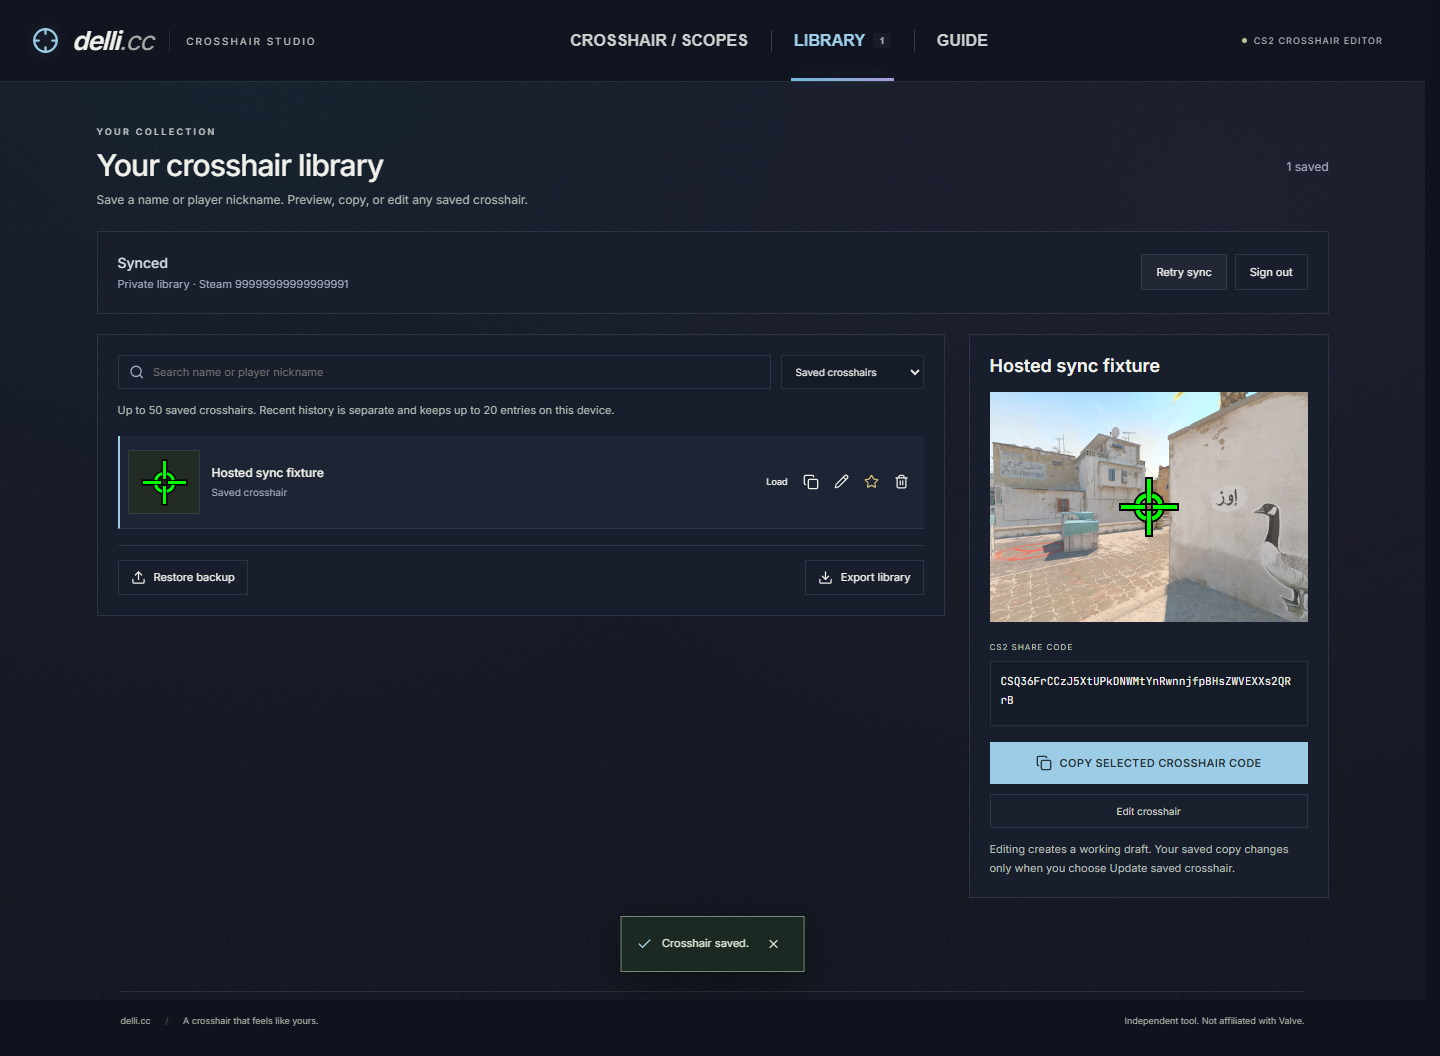
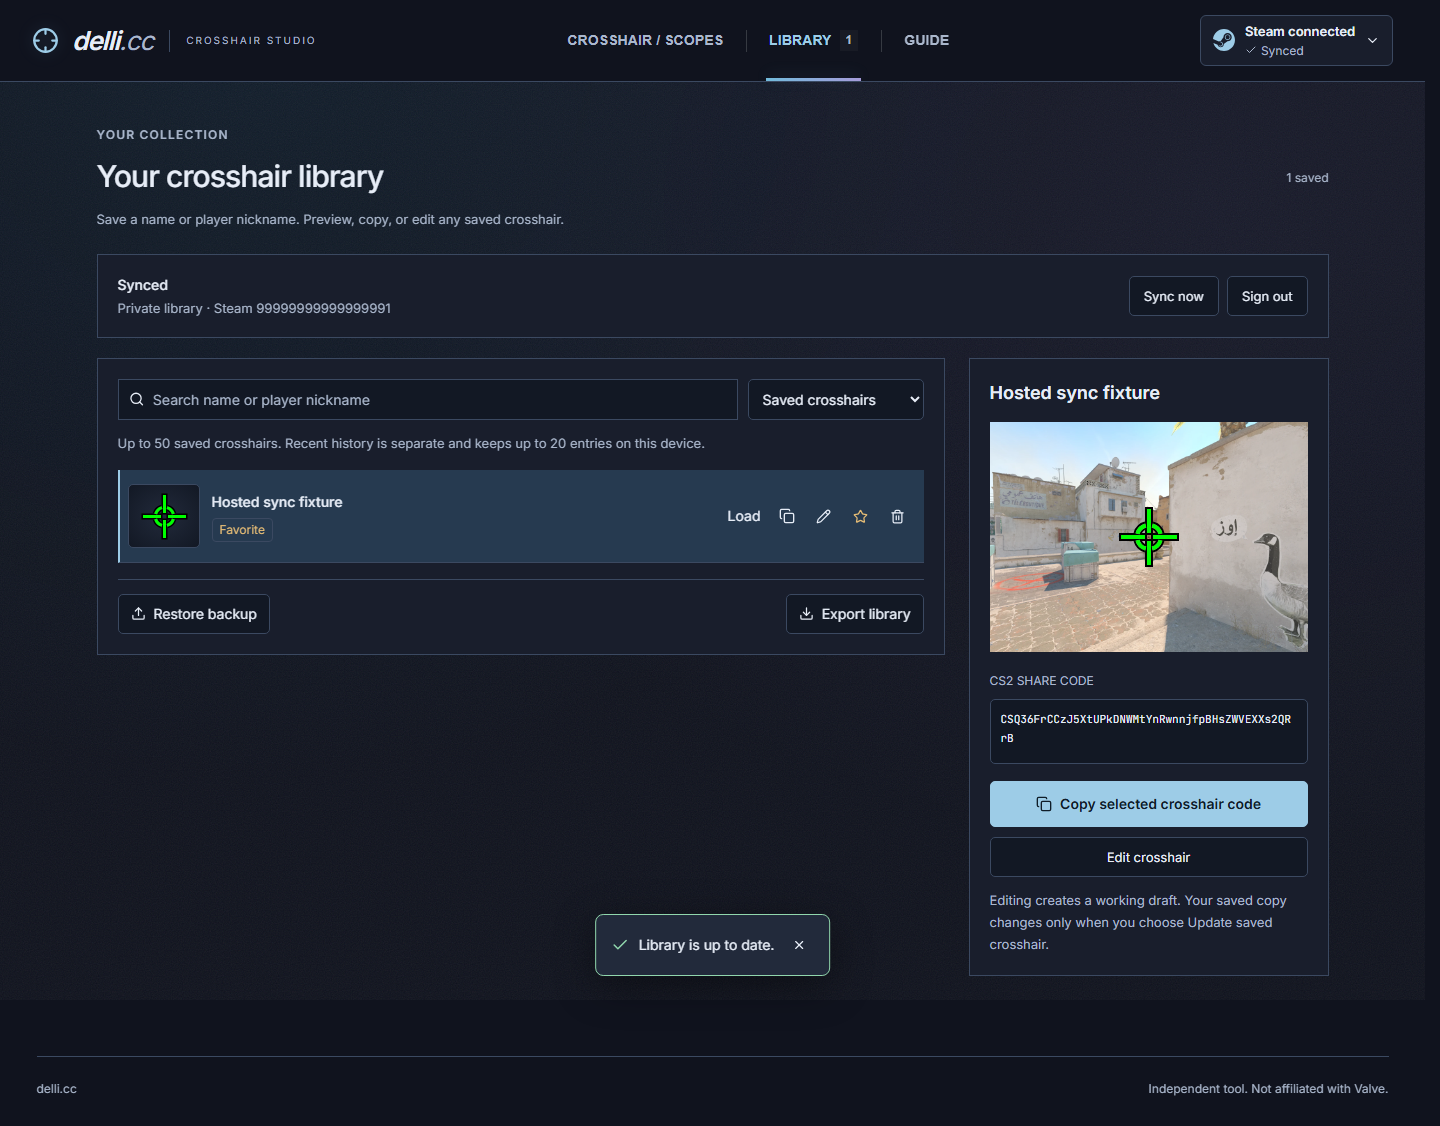
Verify hosted preview sync and document real Firefox Steam login

diff --git a/scripts/verify-vercel-preview.ts b/scripts/verify-vercel-preview.ts
@@ -1,26 +1,93 @@
-import {chromium,expect} from '@playwright/test';
+import {chromium,expect,type Page} from '@playwright/test';
 import {createNeonStore} from '../server/neon-store.ts';
 import {neon} from '@neondatabase/serverless';
 import {randomBytes,createHash} from 'node:crypto';
 import {readFileSync,mkdirSync} from 'node:fs';
-const origin=process.env.PREVIEW_ORIGIN??'https://delli-crosshair-h8erl1zzu-softhe.vercel.app';
+
+const requestedOrigin=process.env.PREVIEW_ORIGIN;
+if(!requestedOrigin)throw Error('PREVIEW_ORIGIN must explicitly name the review deployment.');
+const deployment=new URL(requestedOrigin);
+if(deployment.protocol!=='https:'||!/^delli-crosshair-[a-z0-9]+-softhe\.vercel\.app$/.test(deployment.hostname)||deployment.port||deployment.pathname!=='/'||deployment.search||deployment.hash||deployment.username||deployment.password)throw Error('Use a deployment-specific delli-crosshair preview origin, never production.');
+const origin=deployment.origin;
 const secret=JSON.parse(readFileSync('.tools/preview-bypass.json','utf8')).secret;
-const url=process.env.DATABASE_URL;if(!url)throw Error('DATABASE_URL is required.');
+const url=process.env.DATABASE_URL;if(!url)throw Error('The preview DATABASE_URL is required.');
 const sql=neon(url),store=await createNeonStore(url),browser=await chromium.launch();
 // Synthetic non-production identities exercise the deployed API without pretending to verify Steam accounts.
-const owners=['99999999999999991','99999999999999992'];const sessions:string[]=[];
+const owners=['99999999999999991','99999999999999992'];
+const sessions:string[]=[],fixtureOwners:string[]=[],states:string[]=[];
 mkdirSync('docs/evidence',{recursive:true});
+async function openSave(page:Page){
+  const disclosure=page.locator('.save-disclosure');
+  if(await disclosure.getAttribute('open')===null)await disclosure.locator(':scope > summary').click();
+}
 try{
-  async function context(owner?:string,width=1440,height=1000){const c=await browser.newContext({viewport:{width,height}});await c.route('**/*',route=>{const request=route.request();return new URL(request.url()).origin===origin?route.continue({headers:{...request.headers(),'x-vercel-protection-bypass':secret}}):route.continue();});if(owner){const id=randomBytes(32).toString('hex'),hash=createHash('sha256').update(id).digest('hex');sessions.push(hash);await store.addSession({id:hash,owner,csrf:randomBytes(32).toString('hex'),expires:Date.now()+600000});await c.addCookies([{name:'delli_session',value:id,url:origin,httpOnly:true,secure:true,sameSite:'Lax'}]);}return c;}
-  const guest=await context();const g=await guest.newPage();await g.goto(origin,{waitUntil:'networkidle'});await g.waitForFunction(()=>!document.getElementById('root')!.inert);await g.getByRole('button',{name:'Library',exact:true}).click();await expect(g.getByRole('link',{name:'Sign in with Steam',exact:true})).toBeVisible();const session=await g.request.get(origin+'/api/session',{headers:{'x-vercel-protection-bypass':secret}});expect(session.status()).toBe(200);expect(await session.json()).toEqual({user:null});const redirect=await g.request.get(origin+'/api/auth/steam',{headers:{'x-vercel-protection-bypass':secret},maxRedirects:0});expect(redirect.status()).toBe(302);const provider=new URL(redirect.headers().location!);expect(provider.origin).toBe('https://steamcommunity.com');expect(new URL(provider.searchParams.get('openid.return_to')!).origin).toBe(origin);console.log('Hosted guest session and real Steam redirect PASS.');
-  const ca=await context(owners[0]),cb=await context(owners[0]),cc=await context(owners[1]);const a=await ca.newPage(),b=await cb.newPage(),c=await cc.newPage();
-  for(const p of [a,b,c]){await p.goto(origin,{waitUntil:'networkidle'});await p.waitForFunction(()=>!document.getElementById('root')!.inert);}
-  await a.getByLabel('Crosshair name',{exact:true}).fill('Hosted sync fixture');await a.getByRole('button',{name:'Save to favorites',exact:true}).click();await a.getByRole('button',{name:'Library',exact:true}).click();await expect(a.getByLabel('Library sync status')).toHaveText('Synced');
-  await b.getByRole('button',{name:'Library',exact:true}).click();await b.getByRole('button',{name:/Sync now|Retry sync/}).click();await expect(b.getByRole('button',{name:'Preview Hosted sync fixture'})).toBeVisible();await b.getByRole('button',{name:'Load',exact:true}).click();await b.getByRole('spinbutton',{name:'Length',exact:true}).fill('12');await b.getByRole('spinbutton',{name:'Length',exact:true}).blur();await b.getByRole('button',{name:'Update saved crosshair'}).click();await b.getByRole('button',{name:'Library',exact:true}).click();await expect(b.getByLabel('Library sync status')).toHaveText('Synced');await a.getByRole('button',{name:/Sync now|Retry sync/}).click();await expect(a.getByLabel('Selected crosshair code')).toHaveValue(await b.getByLabel('Selected crosshair code').inputValue());
-  await c.getByRole('button',{name:'Library',exact:true}).click();await expect(c.getByRole('button',{name:'Preview Hosted sync fixture'})).toHaveCount(0);await a.screenshot({path:'docs/evidence/vercel-neon-library-desktop.png',fullPage:true});
-  const mobile=await context(undefined,390,844),m=await mobile.newPage();await m.goto(origin+'/?view=library',{waitUntil:'networkidle'});await m.waitForFunction(()=>!document.getElementById('root')!.inert);await expect(m.getByRole('link',{name:'Sign in with Steam'})).toBeVisible();expect(await m.evaluate(()=>document.documentElement.scrollWidth<=innerWidth)).toBeTruthy();await m.screenshot({path:'docs/evidence/vercel-neon-library-mobile.png',fullPage:true});
-  await b.getByRole('button',{name:'Sign out'}).click();await expect(b.getByRole('link',{name:'Sign in with Steam'})).toBeVisible();await expect(b.getByRole('button',{name:'Preview Hosted sync fixture'})).toHaveCount(0);
-  console.log('Hosted Vercel + real Neon PASS: cross-browser save/update, private account isolation, sign-out, desktop/mobile UI. Authentication used synthetic test sessions; an actual Steam user login is not claimed.');
+  // Refuse to overwrite prior fixtures; cleanup owns only identities proven empty before this run.
+  for(const owner of owners){
+    const rows=await sql.query('SELECT owner FROM libraries WHERE owner=$1 UNION ALL SELECT owner FROM sessions WHERE owner=$1',[owner]);
+    if(rows.length)throw Error('A synthetic fixture identity is already in use. No existing fixture will be deleted.');
+  }
+  fixtureOwners.push(...owners);
+  async function context(owner?:string,width=1440,height=1000){
+    const c=await browser.newContext({viewport:{width,height}});
+    await c.route('**/*',route=>{
+      const request=route.request();
+      return new URL(request.url()).origin===origin?route.continue({headers:{...request.headers(),'x-vercel-protection-bypass':secret}}):route.continue();
+    });
+    if(owner){
+      const id=randomBytes(32).toString('hex'),hash=createHash('sha256').update(id).digest('hex');sessions.push(hash);
+      await store.addSession({id:hash,owner,csrf:randomBytes(32).toString('hex'),expires:Date.now()+600000});
+      await c.addCookies([{name:'delli_session',value:id,url:origin,httpOnly:true,secure:true,sameSite:'Lax'}]);
+    }
+    return c;
+  }
+  const guest=await context(),g=await guest.newPage();
+  await g.goto(origin,{waitUntil:'networkidle'});await g.waitForFunction(()=>!document.getElementById('root')!.inert);
+  await expect(g.getByRole('link',{name:'Sign in with Steam',exact:true})).toBeVisible();
+  await g.getByRole('button',{name:'Library',exact:true}).click();
+  await expect(g.getByRole('link',{name:'Sign in with Steam',exact:true})).toBeVisible();
+  const session=await g.request.get(origin+'/api/session',{headers:{'x-vercel-protection-bypass':secret}});
+  expect(session.status()).toBe(200);expect(await session.json()).toEqual({user:null});
+  const redirect=await g.request.get(origin+'/api/auth/steam?returnTo=%2F%3Fview%3Dlibrary',{headers:{'x-vercel-protection-bypass':secret},maxRedirects:0});
+  expect(redirect.status()).toBe(302);
+  const provider=new URL(redirect.headers().location!),callback=new URL(provider.searchParams.get('openid.return_to')!);
+  expect(provider.origin).toBe('https://steamcommunity.com');expect(callback.origin).toBe(origin);
+  expect(callback.searchParams.get('returnTo')).toBe('/?view=library');
+  const authState=callback.searchParams.get('state');if(!authState)throw Error('Preview did not return auth state.');
+  states.push(createHash('sha256').update(authState+'\n/?view=library').digest('hex'));
+  console.log('Hosted guest header and Library sign-in, session, and real Steam redirect PASS.');
+  const ca=await context(owners[0]),cb=await context(owners[0]),cc=await context(owners[1]);
+  const a=await ca.newPage(),b=await cb.newPage(),c=await cc.newPage();
+  for(const page of [a,b,c]){
+    await page.goto(origin,{waitUntil:'networkidle'});await page.waitForFunction(()=>!document.getElementById('root')!.inert);
+    await expect(page.getByRole('button',{name:'Steam account',exact:true})).toBeVisible();
+  }
+  await openSave(a);await a.getByLabel('Crosshair name',{exact:true}).fill('Hosted sync fixture');
+  await a.getByRole('button',{name:'Save to favorites',exact:true}).click();
+  await a.getByRole('button',{name:'Library',exact:true}).click();await expect(a.getByLabel('Library sync status')).toHaveText('Synced');
+  await b.getByRole('button',{name:'Library',exact:true}).click();await b.getByRole('button',{name:/Sync now|Retry sync/}).click();
+  await expect(b.getByRole('button',{name:'Preview Hosted sync fixture'})).toBeVisible();
+  await b.getByRole('button',{name:'Edit crosshair',exact:true}).click();
+  await b.getByRole('spinbutton',{name:'Length',exact:true}).fill('12');await b.getByRole('spinbutton',{name:'Length',exact:true}).blur();
+  await openSave(b);await b.getByRole('button',{name:'Update saved crosshair',exact:true}).click();
+  await b.getByRole('button',{name:'Library',exact:true}).click();await expect(b.getByLabel('Library sync status')).toHaveText('Synced');
+  await a.getByRole('button',{name:/Sync now|Retry sync/}).click();
+  await expect(a.getByLabel('Selected crosshair code')).toHaveValue(await b.getByLabel('Selected crosshair code').inputValue());
+  await c.getByRole('button',{name:'Library',exact:true}).click();await expect(c.getByRole('button',{name:'Preview Hosted sync fixture'})).toHaveCount(0);
+  await a.screenshot({path:'docs/evidence/vercel-neon-library-desktop.png',fullPage:true});
+  const mobile=await context(undefined,390,844),m=await mobile.newPage();
+  await m.goto(origin+'/?view=library',{waitUntil:'networkidle'});await m.waitForFunction(()=>!document.getElementById('root')!.inert);
+  await expect(m.getByRole('link',{name:'Sign in with Steam'})).toBeVisible();
+  expect(await m.evaluate(()=>document.documentElement.scrollWidth<=innerWidth)).toBeTruthy();
+  await m.screenshot({path:'docs/evidence/vercel-neon-library-mobile.png',fullPage:true});
+  await b.getByRole('button',{name:'Steam account',exact:true}).click();await b.getByRole('button',{name:'Sign out of Steam',exact:true}).click();
+  await expect(b.getByRole('link',{name:'Sign in with Steam'})).toBeVisible();await expect(b.getByRole('button',{name:'Preview Hosted sync fixture'})).toHaveCount(0);
+  console.log('Hosted Vercel + real Neon PASS: separate-browser-context save/update, private account isolation, header sign-out, desktop/mobile UI. Authentication used synthetic test sessions; an actual Steam user login is not claimed.');
 }finally{
-  await browser.close();for(const id of sessions)await sql.query('DELETE FROM sessions WHERE id=$1',[id]);for(const owner of owners)await sql.query('DELETE FROM libraries WHERE owner=$1',[owner]);store.close();
+  try{await browser.close();}finally{
+    try{
+      for(const id of sessions)await sql.query('DELETE FROM sessions WHERE id=$1',[id]);
+      for(const id of states)await sql.query('DELETE FROM states WHERE id=$1',[id]);
+      for(const owner of fixtureOwners)await sql.query('DELETE FROM libraries WHERE owner=$1',[owner]);
+    }finally{store.close();}
+  }
 }

diff --git a/docs/UI_REDESIGN.md b/docs/UI_REDESIGN.md
@@ -1,6 +1,6 @@
 # UI and UX redesign
 
-Current review state, October 19, 2026. Source lives in the `cs2-crosshair-replacement` checkout. The neighboring `crosshair-delli` directory is an older preview copy.
+Current review state, October 20, 2026. Source lives in the `cs2-crosshair-replacement` checkout. The neighboring `crosshair-delli` directory is an older preview copy.
 
 ## Editor layout
 
@@ -48,4 +48,6 @@ The server also returned the expected local cancellation redirect for both edito
 
 The final account follow-up includes pending-state brand bounds at 320, 360 and 390 pixels. The full suite is serialized because native clipboard operations can interfere across parallel browser contexts. Logs include `release-check.log`, `final-suite.log`, `firefox-final.log`, `webkit-final.log` and the three `*-account-final.log` files in `.tools/steam-header`.
 
-The local frontend is available at http://localhost:4186 while its development server is running. Screenshots and logs are retained in the ignored `.tools/steam-header` directory. No Git commit, push or production deployment has been made. A hosted preview must still verify its HTTPS public origin and session cookies before release.
+The local frontend is available at http://localhost:4186 while its development server is running. Screenshots and logs are retained in the ignored `.tools/steam-header` directory. The work is committed on `ui/steam-account-editor-redesign` in [PR #9](https://github.com/Softhe/cs2-crosshair/pull/9), including the latest main component split, strict typing, codec/rendering changes and server hardening. After integration, 67 unit/server tests and the production build passed, the full Chromium suite passed 194 checks with 4 viewport-specific skips, and focused Firefox and WebKit suites each passed 30 checks with 4 viewport-specific skips.
+
+Hosted preview: https://delli-crosshair-93iijt7sv-softhe.vercel.app. Automated checks using the actual Preview Neon environment passed cross-context save/update synchronization, synthetic-account isolation, sign-out, guest Steam redirects and desktop/mobile rendering. Exact temporary fixture sessions, libraries and auth state were cleaned up, with zero fixture sessions/libraries confirmed afterward. The user completed real Steam sign-in in Firefox and reported Steam connected and Synced on this hosted preview. This user-reported Firefox result is distinct from the automated synthetic-session evidence. Vercel protection settings were unchanged. Production deployment is verified separately after merge.

diff --git a/docs/VERCEL_DEPLOYMENT.md b/docs/VERCEL_DEPLOYMENT.md
@@ -41,7 +41,7 @@ After preview deployment, verify the following on its actual origin:
 1. The editor and a direct code link load with their static assets.
 2. `/api/session` returns JSON, and an unknown `/api/` route does not return the SPA.
 3. Steam sign-in redirects to Steam Community with the exact preview callback URL.
-4. A real sign-in creates a secure session and returns to Library.
+4. A real sign-in creates a secure session and returns to the originating editor or Library view.
 5. A favorite saved in one signed-in browser appears in another signed-in browser for the same Steam account. A different account cannot access it.
 6. Guest favorites remain local until the user chooses to add them. Drafts, history, aliases, and display preferences stay local.
 7. Logout ends access to the private account library. Pending saves and retry remain truthful during network failure.
